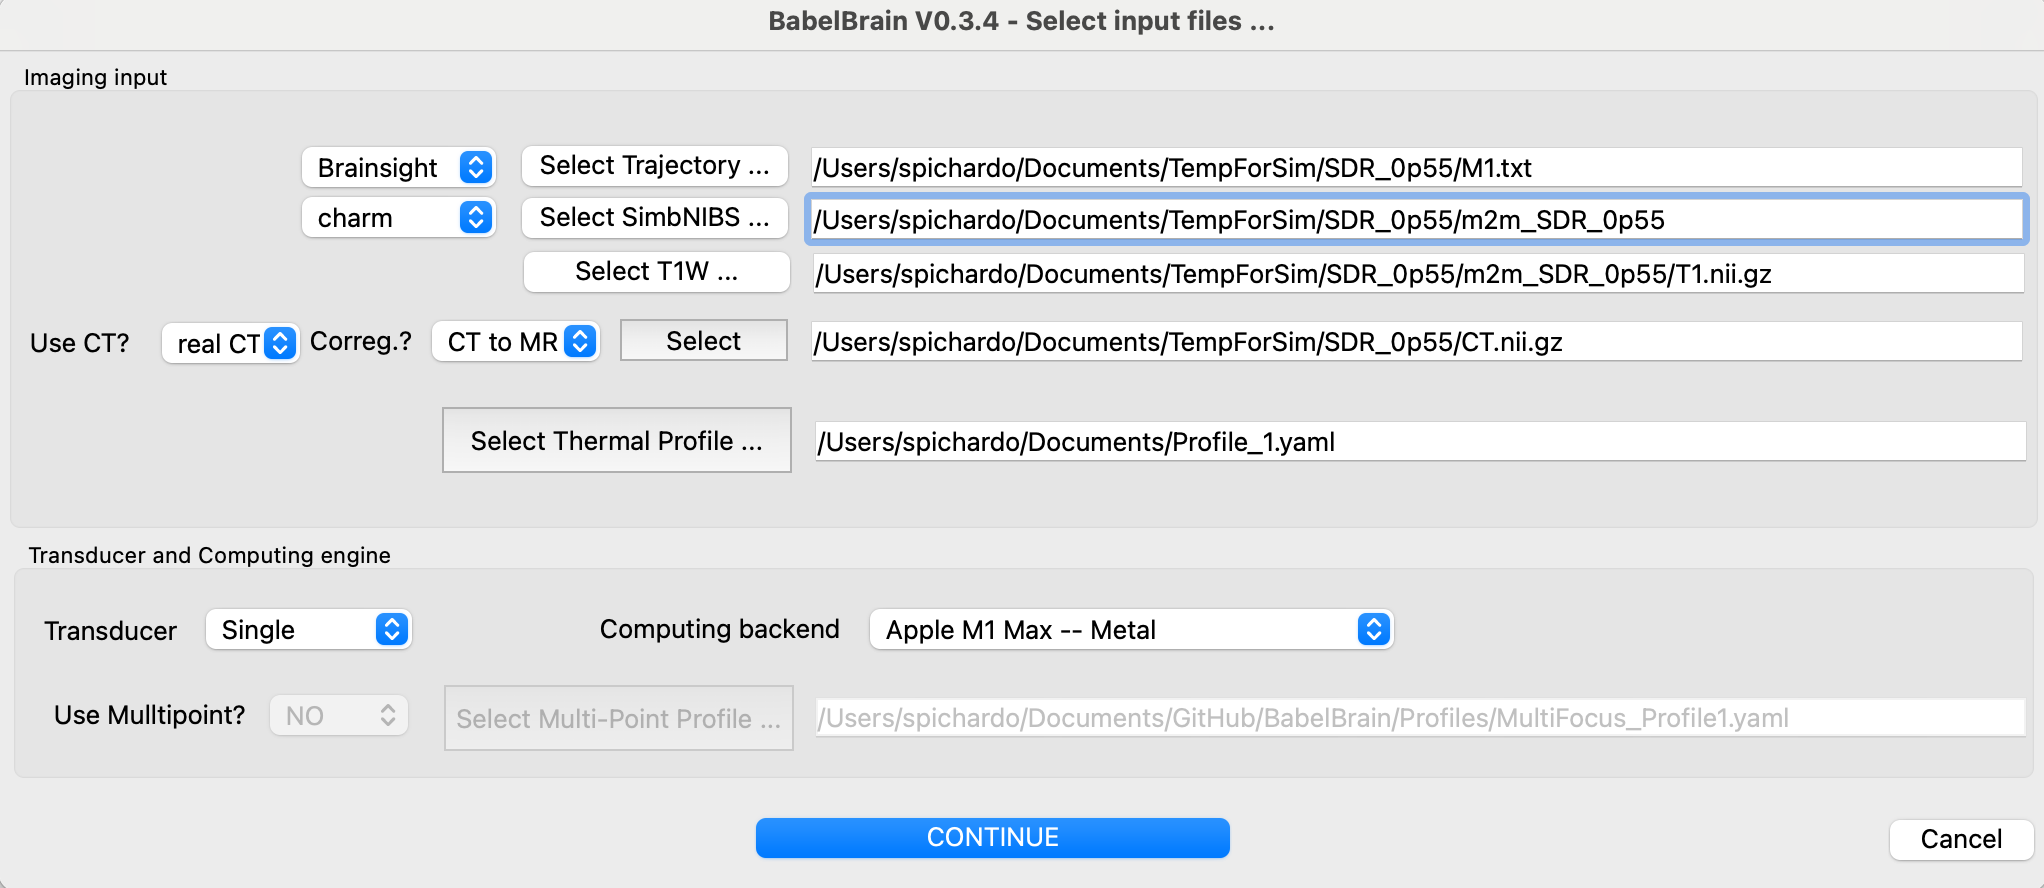
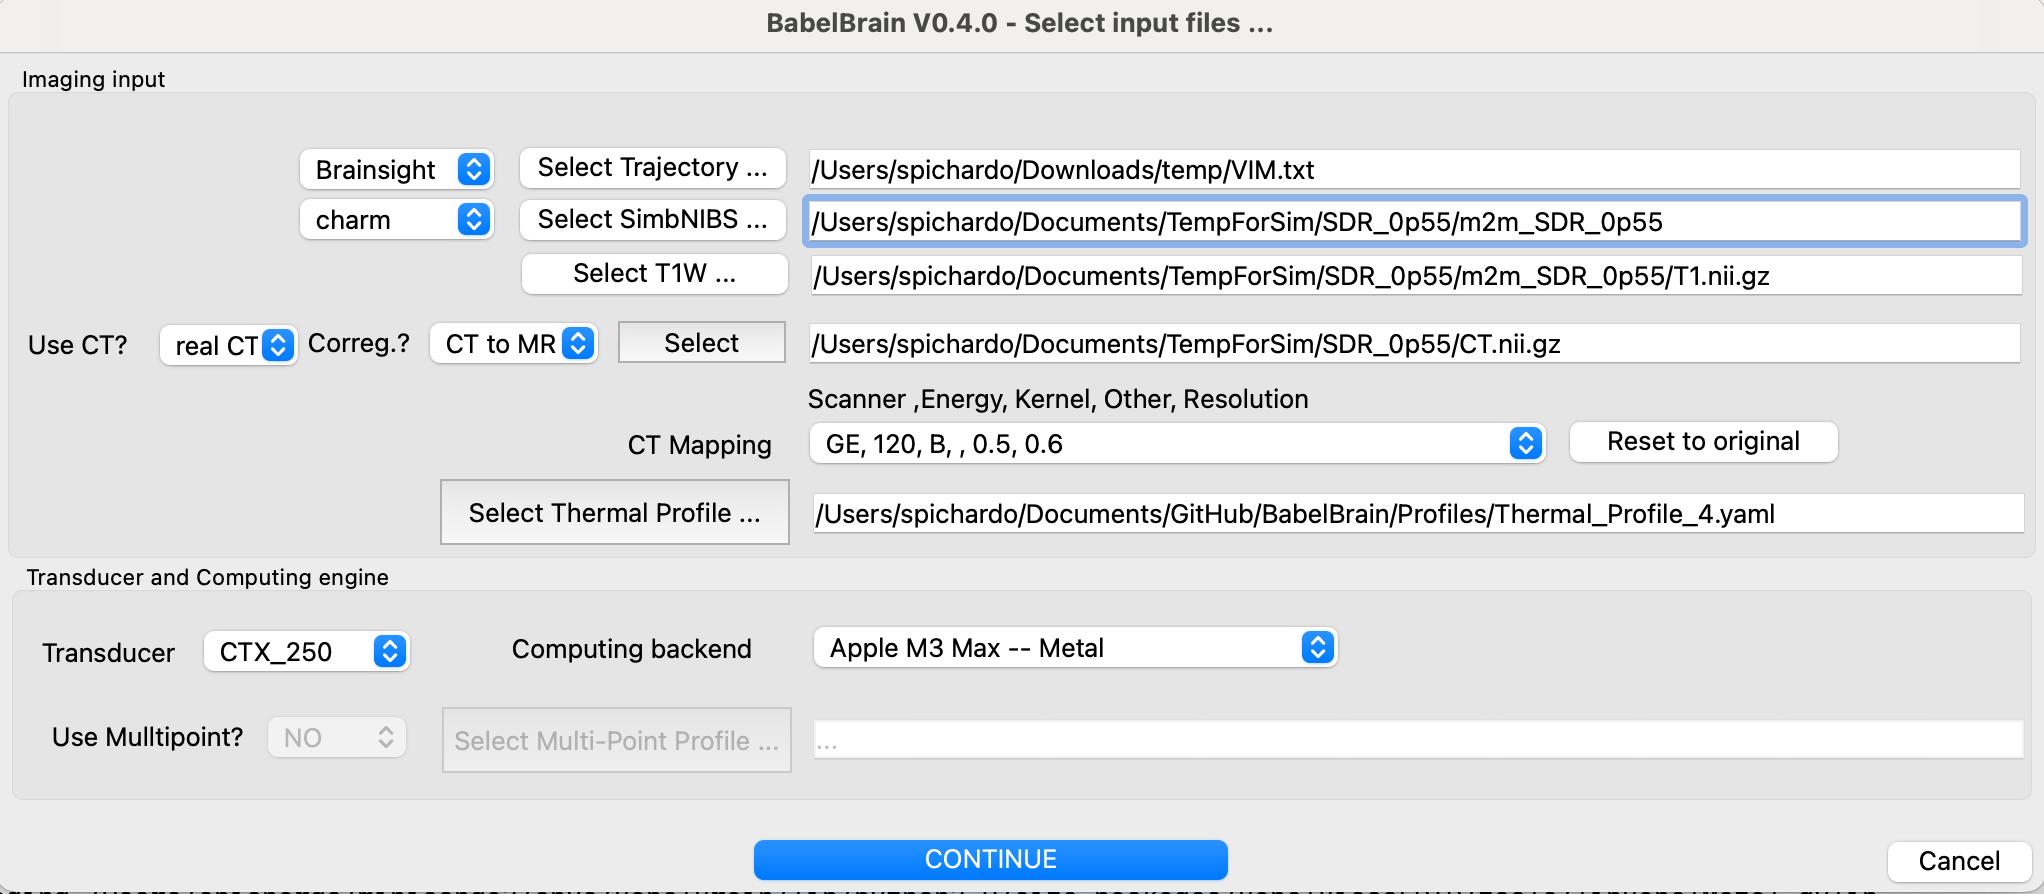
More updates for R.0.4.0

diff --git a/docs/docs/installation.md b/docs/docs/installation.md
@@ -2,7 +2,9 @@ Installation and Running
 ----
 # Preliminary requirements 
 ## OS
-Currently, macOS (ARM64, X64), Windows/Linux (X64) are supported. Windows users can run BabelBrain natively or via [WSL2](https://learn.microsoft.com/en-us/windows/wsl/install) with NVidia GPUs (see this [guide](https://docs.nvidia.com/cuda/wsl-user-guide/index.html)). 
+Currently, macOS (ARM64, X64), Windows/Linux (X64) are supported. Windows users can run BabelBrain natively or via 
+<a href="https://learn.microsoft.com/en-us/windows/wsl/install" target="_blank">WSL2</a>
+with NVidia GPUs (see this <a href="https://docs.nvidia.com/cuda/wsl-user-guide/index.html" target="_blank">guide</a>). 
 
 ### GPU
 BabelBrain supports GPUs enabled via CUDA, OpenCL or Metal. High-end GPUs (8 GPU RAM or more) are recommended. ARM64 processors (M1, M2, M3 families) in Mac systems with 16GB or more RAM are highly recommended. BabelBrain was designed with Mac systems based on Mx processors as primary targets. 
@@ -13,14 +15,15 @@ Intel-based systems need to have a dedicated AMD GPU (internal or external via T
 
 
 ### SimNIBS
-While BabelBrain does not invoke directly SimNIBS tools, BabelBrain depends on the output generated by SimNIBS 3.x `headreco` or SimNIBS 4.x `charm` processing tools. Consult the [Releases](https://github.com/simnibs/simnibs/releases) section in SimNIBS for installation options. We recommended using SimNIBS 4.x `charm` for better results.
+While BabelBrain does not invoke directly SimNIBS tools, BabelBrain depends on the output generated by SimNIBS 4.x `charm` processing tools. Consult the <a href="https://github.com/simnibs/simnibs/releases" target="_blank">Releases</a>
+section in SimNIBS for installation options. 
 
 ### Optional -FSL
-[FSL](https://fsl.fmrib.ox.ac.uk/fsl/fslwiki)'s flirt tool is used as a backup method if dealing with imaging datasets that are not 100% orthogonal; ITK often can't handle them and flirt can be used to enforce orthogonal affine matrices. This situation happens rarely, but it comes with the limitation that FSL is only available in macOS and Linux.  FSL's init scripts must be activated in the .bash_profile or .zsh_profile.
+<a href="https://fsl.fmrib.ox.ac.uk/fsl/fslwiki" target="_blank">FSL</a>'s flirt tool is used as a backup method if dealing with imaging datasets that are not 100% orthogonal; ITK often can't handle them and flirt can be used to enforce orthogonal affine matrices. This situation happens rarely, but it comes with the limitation that FSL is only available in macOS and Linux.  FSL's init scripts must be activated in the .bash_profile or .zsh_profile.
 
 
 ### Navigation-planning software
-While not strictly required, it is highly recommended to use planning software to establish the target localization and orientation, called **trajectory** in the following documentation, of the ultrasound transducer for the simulation of transcranial ultrasound. The trajectory is just a transformation matrix in the T1W space that represents the translation-rotation of a vector describing the target and direction of ultrasound. BabelBrain can import trajectories defined in proprietary software ([Rogue Research's](https://www.rogue-research.com/) Brainsight) or open-source visualization software ([3DSlicer](https://www.slicer.org/)). Instructions are detailed in the pipeline section of this documentation. 
+While not strictly required, it is highly recommended to use planning software to establish the target localization and orientation, called **trajectory** in the following through the documentation, of the ultrasound transducer for the simulation of transcranial ultrasound. The trajectory is just a transformation matrix in the T1W space that represents the translation-rotation of a vector describing the target and direction of ultrasound. BabelBrain can import trajectories defined in a proprietary software (<a href="https://www.rogue-research.com/" target="_blank">Rogue Research</a>'s Brainsight) or open-source visualization software (<a href="https://www.slicer.org/" target="_blank">3DSlicer</a>). Instructions are detailed in the pipeline section of this documentation. 
 
 Starting with BabelBrain v0.3.2 and Brainsight v2.5.3, BabelBrain can be directly called from Brainsight, importing simulations automatically once the BabelBrain execution is completed.
 
@@ -40,12 +43,12 @@ Keep a copy of the `PlanningModels` and `Profiles` directories. `PlanningModels`
 # Manual Installation 
 Python 3.9/3.10. Anaconda/miniconda is recommended. - if running in Apple ARM64 processors (M1, M1 Max, etc.), be sure to use a native ARM64 version.
 
-Clone the [BabelBrain](https://github.com/ProteusMRIgHIFU/BabelBrain/) repository. The code can be run in a Python environment; consult examples of conda environment files in the repository. In macOS, you need a healthy XCode installation with command line tools installed. For Linux, an LTS Ubuntu installation such as 20.04 with a  CUDA installation. For Windows, Visual Studio 2019+ with CUDA 11.7+.
+Clone the <a href="https://github.com/ProteusMRIgHIFU/BabelBrain/" target="_blank">BabelBrain</a> repository. The code can be run in a Python environment; consult examples of conda environment files in the repository. In macOS,  a healthy XCode installation with command line tools is needed. For Linux, an LTS Ubuntu installation such as 20.04 with a  CUDA installation. For Windows, Visual Studio 2019+ with CUDA 11.7+.
 
 
 # Running
 ## Standalone application
-Just open BabelBrain from the Applications section in macOS or in Windows from the Start Menu.
+Open BabelBrain from the Applications section in macOS or in Windows from the Start Menu.
 
 ## Manual execution
 Activate the conda environment, change to the `BabelBrain/BabelBrain` directory and execute

diff --git a/docs/docs/Advanced/advanced.md b/docs/docs/Advanced/advanced.md
@@ -1,0 +1,31 @@
+Advanced features
+----
+Since release 0.3.5, BabelBrain includes a menu for advanced options controlling low-level details in BabelBrain.
+
+If any of these options are modified, they will remain persistent on the next BabelBrain sessions. Select `Reset to defaults` to restore original values.
+
+<img src="advanced-1.png" height=450px>
+
+# Domain Generation
+<img src="advanced-2.png" height=250px>
+
+
+## Elastix co-registration Optimizer
+The default optimizer for Elastix, AdaptiveStochasticGradientDescent, works *almost* for every combination of CT->T1W and ZTE/PETRA->T1W. However, as much more testing has started to accumulate, we noticed that the CT->T1W was not working in some cases. We tested different options in Elastix, and the **FiniteDifferenceGradientDescent** and **QuasiNewtonLBFGS** seem to work well as a replacement. If the coregistration from CT to T1W is not working as expected, try one of these two other options. **FiniteDifferenceGradientDescent** seems to work better.
+
+## Proportion of trabecular bone
+By default, the percentage of trabecular is 80% using the line of sight of the trajectory. If the trajectory crosses very thin regions like the parietal bone, there may be a chance all region is considered trabecular, which may not be desired. A warning message will be printed out in the terminal output in that case. In such cases as the parietal bone, consider reducing a lower value of trabecular, such as 0.1 or 0.2.
+
+## Force using Blender for Constructive Solid Geometry
+While pycork seems to do a great replacement, we identified that in some instances when using the subvolume feature there was a crash in the low pycork library. Forcing using Blender instead can help to run those special cases.
+
+## Manual Subvolume
+This feature is intended to give a bit more control for scenarios where the trajectory is regions where the skin mask may cause some issues, especially in targets near the back of the head. For most targets, there is no need to make any adjustments, but we have spotted a few cases (i.e., EEG-P7 location) in which the skin mask of the back of the head was pushing the whole domain and causing issues to place correctly the transducer. For these scenarios, adjusting a subvolume to extract for the simulations can mitigate these issues. This can also help to reduce image size for high-resolution cases.
+
+# Transcranial Ultrasound
+<img src="advanced-3.png" height=250px>
+
+## CTX-500 Correction
+Starting R0.4.0, BabelBrain introduced a parabollic correction to the Rayleigh's integral-based modeling of the CTX-500 transducer. This small correction ensures that the TPO setting (center of FLHM focal spot at -3dB) matches better how the experimental unit operates. There are two options: **Original** and **July 2024**. The **Original** setting matches how the CTX-500 unit was modelled in previous releases (<= 0.3.5) and **July 2024** has the new correction. Please note that the correction is only a couple mm when focusing at the deepest target.
+
+The newer **CTX 250** and **CTX 500** transducers (introduced in R0.4.0) have already this correction by default.

diff --git a/docs/docs/pipeline/pipeline.md b/docs/docs/pipeline/pipeline.md
@@ -165,13 +165,21 @@ Now that planning is done, you can open BabelBrain.
 
 ## 3.a - Input data
 An input dialog will prompt the different input files required for the simulation. If running directly from BrainSight, some of these fields (marked below with an "*") will be pre-populated.
-<img src="Simulation-2.png" height=250px>
+<img src="Simulation-2.png" height=270px>
 
 
 1. Specify the path to the trajectory file and the source (Slicer or Brainsight) (*).
 2. Select the SimNIBS output directory associated with this test and indicate what tool was used to generate it (`headreco` or `charm`) (*)
 3. Select the path to the T1W Nifti file (*)
 4. Indicate if CT scan is available. Options are "No", "real CT" or "ZTE". Select if coregistration of CT to T1W space must be performed. Depending on your specific preliminary steps, you may have CT already coregistered in T1W space. If coregistration is done by BabelBrain, the resolution of the CT will be preserved. The T1W file will be first bias-corrected and upscaled to the CT resolution and then the CT will be coregistered using the `itk-elastix` package with rigid coregistration.
+5. Select the CT mapping profile that matches the better the CT scanner. Consult papers by Webb *et al.* about  
+<a href="https://doi.org/10.1109/TUFFC.2018.2827899" target="_blank">speed of sound</a>
+and 
+<a href="https://doi.org/10.1109/TUFFC.2020.3039743" target="_blank">attenuation</a>
+ as a function of CT scanning conditions. For most practical scenarios, if using GE, the most common scanner combination will **GE, 120, B,, 0.5, 0.6**. For Siemens scanners, it will be **Siemens,120,B,,0.4, 0.5**.
+
+    When selecting **ZTE** or **PETRA** scans, the best CT combination will be selected automatically.
+    
 5. Select a thermal profile file for simulation. This is a simple YAML file where the timings of transcranial ultrasound are specified. For example:
 
     ```
@@ -185,6 +193,20 @@ An input dialog will prompt the different input files required for the simulatio
 
     
     This definition helps in the step of thermal simulation with BabelBrain. `BaseIsspa` is the reference value of acoustic intensity for which the thermal equation will be solved. You can set this to 5 W/cm$^2$. Choices for other powers will be scaled (no recalculations) based on this value.
+
+
+    For scenarios where repeated exposures is required, the extra field `Repetitions` can be added. For example:
+        ```
+    BaseIsppa: 5.0 # W/cm2
+    AllDC_PRF_Duration: #All combinations of timing that will be considered
+    -   DC: 0.3
+        PRF: 10.0
+        Duration: 30.0
+        DurationOff: 30.0
+        Repetitions: 10
+    ```
+
+    In the previous case, the simulation will run for an exposure lasting 10 min, where ultrasound is turned on for 30s, followed by 30s with ultrasound off, and repeated 10 times.
 
     More than one exposure can be specified. For example:
     

diff --git a/docs/docs/Appendix/Appendix.md b/docs/docs/Appendix/Appendix.md
@@ -1,5 +1,6 @@
 # Appendix - Tissue properties
 
-Please consult the [manuscript](https://arxiv.org/abs/2301.12727) (currently in preprint) for details on the material properties and methodology followed in selecting them.
+Please consult the 
+<a href="https://doi.org/10.1109/TUFFC.2023.3274046" target="_blank">manuscript</a> for details on the underlying models, material properties and methodology followed in selecting them.
 
 
